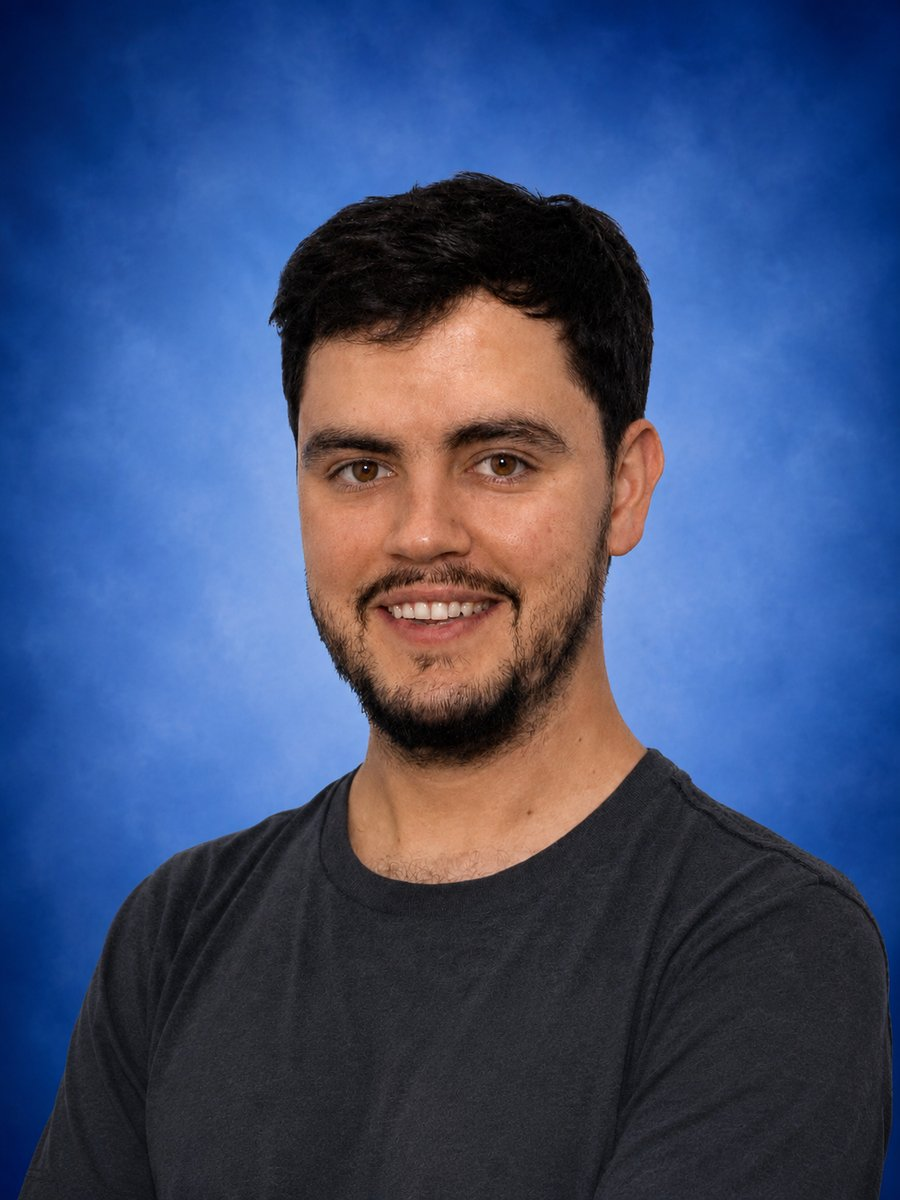
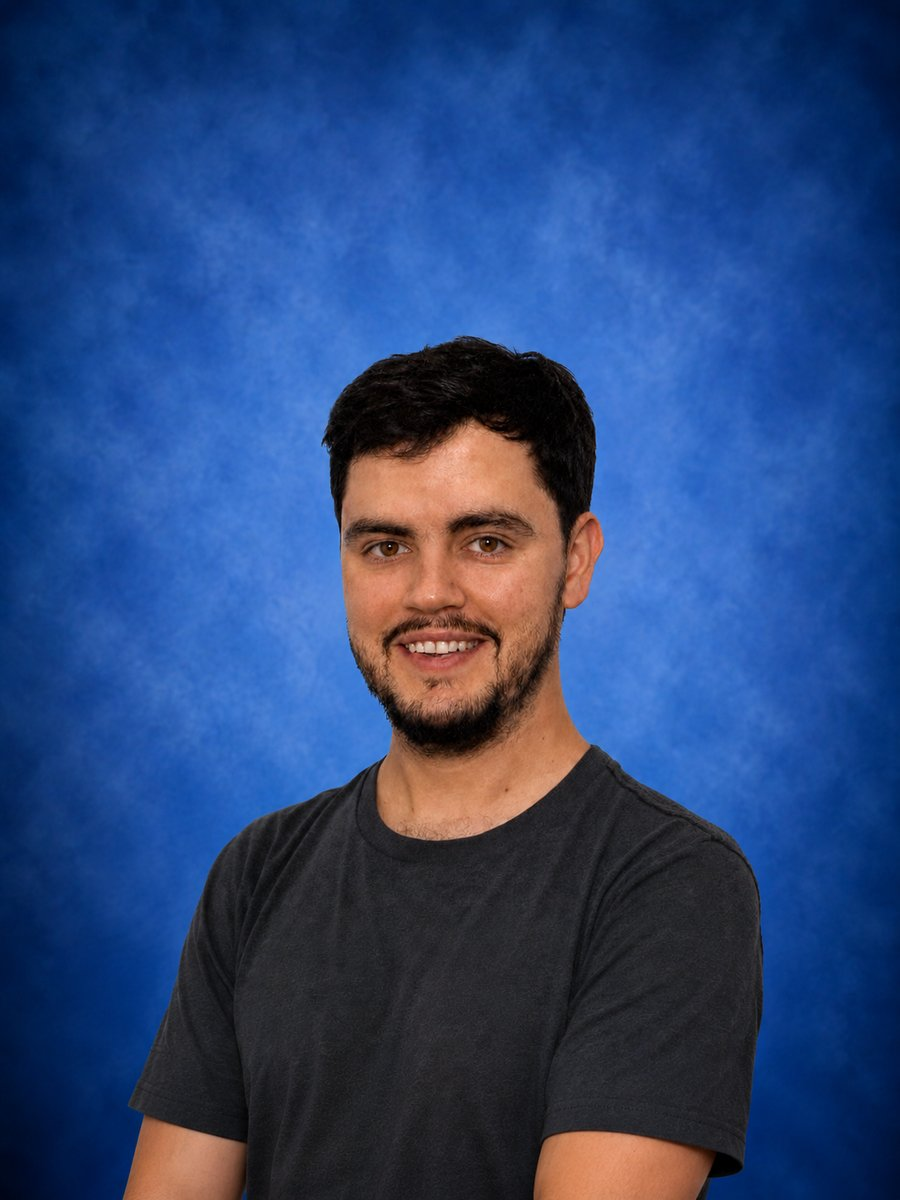
fotos proyectos, galeria tipo catalogo, ajuste margen nosotros

diff --git a/index.html b/index.html
@@ -80,7 +80,7 @@
     </div>
   </div>
   <script>
-    const PROJECTS = [{"title": "Diseño editorial Catastro campamentos 2021", "year": "2021", "client": "TECHO Chile", "desc": "Diseño editorial del catastro nacional de campamentos de Chile. La publicación ordena datos territoriales, cartografía y testimonios en una secuencia por región, con los mapas como eje de lectura.", "imgs": ["assets/portfolio/catastro-campamentos-2021.jpg"]}, {"title": "Diseño editorial Informe 8 años Meric", "year": "2024", "client": "Centro MERIC", "desc": "Diseño editorial de la memoria por los ocho años del Centro MERIC, dedicado a la investigación en innovación en energía marina. La pieza organiza resultados, cifras y contenidos del centro en un sistema editorial impreso.", "imgs": ["assets/portfolio/informe-8-anos-meric.jpg"]}, {"title": "Coordinación de marca Fundación Vivienda", "year": "2019", "client": "Fundación Vivienda", "desc": "Gestión gráfica de la marca de Fundación Vivienda: resguardo de su uso y desarrollo de aplicaciones para piezas y publicaciones.", "imgs": ["assets/portfolio/marca-fundacion-vivienda.jpg"]}, {"title": "Diseño de identidad de marca y web Contrafactual", "year": "2018", "client": "Contrafactual", "desc": "Identidad de marca y sitio web para Contrafactual, medio digital especializado en temas económicos en Chile. El encargo abarcó el sistema visual y el diseño del sitio editorial.", "imgs": ["assets/portfolio/identidad-web-contrafactual.jpg"]}, {"title": "Diseño editorial y material de venta", "year": "2023", "client": "Aspid", "desc": "Diseño editorial de material de venta para Genesal, Tisvol y Purever, centrado en la presentación de sus productos. El encargo llegó a través de la agencia Aspid.", "imgs": ["assets/portfolio/material-de-venta.jpg"]}, {"title": "Coordinación de marca Fundación Huella Local", "year": "2024–2026", "client": "Fundación Huella Local", "desc": "Gestión gráfica de la marca de Fundación Huella Local: resguardo de su uso y desarrollo de aplicaciones y publicaciones.", "imgs": ["assets/portfolio/marca-fundacion-huella-local.jpg"]}, {"title": "Kit Concausa 2021", "year": "2021", "client": "América Solidaria", "desc": "Diseño de un kit de materiales físicos para Concausa, encuentro digital de adolescentes de América Solidaria realizado durante la pandemia, orientado a entregar herramientas de participación e incidencia. El kit reunía una libreta de diseño propio, un mazo de cartas desarrollado en equipo y otros materiales, enviados a participantes de distintos países de Latinoamérica.", "imgs": ["assets/portfolio/kit-concausa-2021.jpg"]}, {"title": "Acompañamiento escritura de cuentos, diseño y producción editorial", "year": "2025", "client": "Particular", "desc": "Acompañamiento editorial a un grupo de autoras en la escritura de cuentos biográficos. El trabajo abarcó la corrección ortotipográfica y de estilo de más de cuarenta cuentos, la organización del conjunto como libro colectivo, el diseño editorial de interior y portada, y la gestión de imprenta para una tirada de 500 ejemplares.", "imgs": ["assets/portfolio/acompanamiento-escritura-cuentos.jpg"]}, {"title": "Naming y diseño de identidad de marca Wift", "year": "2022", "client": "Wift", "desc": "Naming e identificador gráfico de Wift, startup chilena de renting de autos. Desarrollado en dupla con otro diseñador.", "imgs": ["assets/portfolio/naming-identidad-wift.png"]}];
+    const PROJECTS = [{"title": "Diseño editorial Catastro campamentos 2021", "year": "2021", "client": "TECHO Chile", "desc": "Diseño editorial del catastro nacional de campamentos de Chile. La publicación ordena datos territoriales, cartografía y testimonios en una secuencia por región, con los mapas como eje de lectura.", "imgs": ["assets/portfolio/catastro-campamentos-2021.jpg", "assets/portfolio/catastro-campamentos-2021-2.jpg", "assets/portfolio/catastro-campamentos-2021-3.jpg"]}, {"title": "Diseño editorial Informe 8 años Meric", "year": "2024", "client": "Centro MERIC", "desc": "Diseño editorial de la memoria por los ocho años del Centro MERIC, dedicado a la investigación en innovación en energía marina. La pieza organiza resultados, cifras y contenidos del centro en un sistema editorial impreso.", "imgs": ["assets/portfolio/informe-8-anos-meric.jpg", "assets/portfolio/informe-8-anos-meric-2.jpg", "assets/portfolio/informe-8-anos-meric-3.jpg"]}, {"title": "Coordinación de marca Fundación Vivienda", "year": "2019", "client": "Fundación Vivienda", "desc": "Gestión gráfica de la marca de Fundación Vivienda: resguardo de su uso y desarrollo de aplicaciones para piezas y publicaciones.", "imgs": ["assets/portfolio/marca-fundacion-vivienda.jpg", "assets/portfolio/marca-fundacion-vivienda-2.jpg", "assets/portfolio/marca-fundacion-vivienda-3.jpg", "assets/portfolio/marca-fundacion-vivienda-4.jpg", "assets/portfolio/marca-fundacion-vivienda-5.jpg"]}, {"title": "Diseño de identidad de marca y web Contrafactual", "year": "2018", "client": "Contrafactual", "desc": "Identidad de marca y sitio web para Contrafactual, medio digital especializado en temas económicos en Chile. El encargo abarcó el sistema visual y el diseño del sitio editorial.", "imgs": ["assets/portfolio/identidad-web-contrafactual.jpg"]}, {"title": "Diseño editorial y material de venta", "year": "2023", "client": "Aspid", "desc": "Diseño editorial de material de venta para Genesal, Tisvol y Purever, centrado en la presentación de sus productos. El encargo llegó a través de la agencia Aspid.", "imgs": ["assets/portfolio/material-de-venta.jpg", "assets/portfolio/material-de-venta-2.jpg", "assets/portfolio/material-de-venta-3.jpg"]}, {"title": "Coordinación de marca Fundación Huella Local", "year": "2024–2026", "client": "Fundación Huella Local", "desc": "Gestión gráfica de la marca de Fundación Huella Local: resguardo de su uso y desarrollo de aplicaciones y publicaciones.", "imgs": ["assets/portfolio/marca-fundacion-huella-local.jpg", "assets/portfolio/marca-fundacion-huella-local-2.jpg", "assets/portfolio/marca-fundacion-huella-local-3.jpg", "assets/portfolio/marca-fundacion-huella-local-4.jpg", "assets/portfolio/marca-fundacion-huella-local-5.jpg", "assets/portfolio/marca-fundacion-huella-local-6.jpg"]}, {"title": "Kit Concausa 2021", "year": "2021", "client": "América Solidaria", "desc": "Diseño de un kit de materiales físicos para Concausa, encuentro digital de adolescentes de América Solidaria realizado durante la pandemia, orientado a entregar herramientas de participación e incidencia. El kit reunía una libreta de diseño propio, un mazo de cartas desarrollado en equipo y otros materiales, enviados a participantes de distintos países de Latinoamérica.", "imgs": ["assets/portfolio/kit-concausa-2021.jpg", "assets/portfolio/kit-concausa-2021-2.jpg", "assets/portfolio/kit-concausa-2021-3.jpg", "assets/portfolio/kit-concausa-2021-4.jpg", "assets/portfolio/kit-concausa-2021-5.jpg", "assets/portfolio/kit-concausa-2021-6.jpg", "assets/portfolio/kit-concausa-2021-7.jpg", "assets/portfolio/kit-concausa-2021-8.jpg"]}, {"title": "Acompañamiento escritura de cuentos, diseño y producción editorial", "year": "2025", "client": "Particular", "desc": "Acompañamiento editorial a un grupo de autoras en la escritura de cuentos biográficos. El trabajo abarcó la corrección ortotipográfica y de estilo de más de cuarenta cuentos, la organización del conjunto como libro colectivo, el diseño editorial de interior y portada, y la gestión de imprenta para una tirada de 500 ejemplares.", "imgs": ["assets/portfolio/acompanamiento-escritura-cuentos.jpg", "assets/portfolio/acompanamiento-escritura-cuentos-2.jpg", "assets/portfolio/acompanamiento-escritura-cuentos-3.jpg", "assets/portfolio/acompanamiento-escritura-cuentos-4.jpg"]}, {"title": "Naming y diseño de identidad de marca Wift", "year": "2022", "client": "Wift", "desc": "Naming e identificador gráfico de Wift, startup chilena de renting de autos. Desarrollado en dupla con otro diseñador.", "imgs": ["assets/portfolio/naming-identidad-wift.png", "assets/portfolio/naming-identidad-wift-2.jpg", "assets/portfolio/naming-identidad-wift-3.jpg", "assets/portfolio/naming-identidad-wift-4.jpg"]}];
     const modal = document.getElementById('pmodal');
     function openP(i){
       const p = PROJECTS[i];
@@ -88,10 +88,34 @@
       document.getElementById('pm-year').textContent = p.year;
       document.getElementById('pm-client').textContent = p.client;
       document.getElementById('pm-desc').textContent = p.desc;
-      document.getElementById('pm-imgs').innerHTML = p.imgs.map(s => '<img src="'+s+'" alt="'+p.title+'">').join('');
+      renderGallery(p.imgs, p.title);
       modal.classList.add('open'); modal.setAttribute('aria-hidden','false');
       document.body.classList.add('noscroll');
       modal.querySelector('.pmodal-panel').scrollTop = 0;
+    }
+    function renderGallery(imgs, title){
+      const wrap = document.getElementById('pm-imgs');
+      const multi = imgs.length > 1;
+      wrap.innerHTML = '<div class="pgallery">' +
+        '<div class="pgallery-main">' +
+          (multi ? '<button class="pgallery-arrow prev" aria-label="Anterior">‹</button>' : '') +
+          '<img id="pgallery-main-img" src="'+imgs[0]+'" alt="'+title+'">' +
+          (multi ? '<button class="pgallery-arrow next" aria-label="Siguiente">›</button>' : '') +
+        '</div>' +
+        (multi ? '<div class="pgallery-thumbs">' + imgs.map((s,idx) => '<button class="pgallery-thumb'+(idx===0?' active':'')+'" data-idx="'+idx+'"><img src="'+s+'" alt=""></button>').join('') + '</div>' : '') +
+      '</div>';
+      if (!multi) return;
+      let idx = 0;
+      const mainImg = wrap.querySelector('#pgallery-main-img');
+      const thumbs = wrap.querySelectorAll('.pgallery-thumb');
+      function show(n){
+        idx = (n + imgs.length) % imgs.length;
+        mainImg.src = imgs[idx];
+        thumbs.forEach((t, ti) => t.classList.toggle('active', ti === idx));
+      }
+      wrap.querySelector('.prev').addEventListener('click', () => show(idx - 1));
+      wrap.querySelector('.next').addEventListener('click', () => show(idx + 1));
+      thumbs.forEach(t => t.addEventListener('click', () => show(+t.dataset.idx)));
     }
     function closeP(){ modal.classList.remove('open'); modal.setAttribute('aria-hidden','true'); document.body.classList.remove('noscroll'); }
     document.querySelectorAll('.card[data-i]').forEach(b => b.addEventListener('click', () => openP(+b.dataset.i)));

diff --git a/assets/css/site.css b/assets/css/site.css
@@ -37,12 +37,12 @@ nav a.active { color: #fff; font-weight: 600; }
 .hero-mark img { position: absolute; inset: 0; width: 100%; height: 100%; opacity: 0; }
 .hero-mark img:first-child { opacity: 1; }
 .hero-mark img:nth-child(1) { animation-delay: 0s; }
-.hero-mark img:nth-child(2) { animation-delay: 1s; }
-.hero-mark img:nth-child(3) { animation-delay: 2s; }
-.hero-mark img:nth-child(4) { animation-delay: 3s; }
+.hero-mark img:nth-child(2) { animation-delay: 0.4s; }
+.hero-mark img:nth-child(3) { animation-delay: 0.8s; }
+.hero-mark img:nth-child(4) { animation-delay: 1.2s; }
 @keyframes markcycle { 0%, 25% { opacity: 1; } 25.001%, 100% { opacity: 0; } }
 @media (prefers-reduced-motion: no-preference) {
-  .hero-mark img { animation: markcycle 4s linear infinite; }
+  .hero-mark img { animation: markcycle 1.6s linear infinite; }
   .hero-mark img:first-child { opacity: 0; }
 }
 
@@ -142,6 +142,10 @@ footer { padding: 56px 80px 48px; border-top: 1px solid rgba(255,255,255,0.18); 
 
 /* Banda gris de la grilla de proyectos */
 .grid-band { background: #E6E6E6; }
+.team-band { color: #1F1F23; }
+.team-band .display { color: #1F1F23; }
+.nosotros-intro { padding-bottom: 64px; }
+.nosotros-intro .manifesto { margin-bottom: 24px; }
 
 /* Tarjetas como botones */
 .card { display: block; width: 100%; text-align: left; background: none; border: 0; padding: 0; margin: 0; cursor: pointer; font: inherit; color: inherit; }
@@ -160,8 +164,18 @@ footer { padding: 56px 80px 48px; border-top: 1px solid rgba(255,255,255,0.18); 
 .pmodal-meta .k { font-size: 12px; color: #777; margin-bottom: 5px; }
 .pmodal-meta .v { font-size: 16px; font-weight: 600; }
 .pmodal-desc { font-size: 17px; line-height: 1.6; color: #333; max-width: 64ch; margin-bottom: 36px; white-space: pre-line; }
-.pmodal-imgs { display: grid; gap: 16px; }
-.pmodal-imgs img { width: 100%; display: block; }
+.pmodal-imgs { }
+.pgallery-main { position: relative; background: #fff; border: 1px solid rgba(0,0,0,0.08); display: flex; align-items: center; justify-content: center; height: 60vh; max-height: 560px; overflow: hidden; }
+.pgallery-main img { max-width: 100%; max-height: 100%; width: auto; height: auto; object-fit: contain; display: block; }
+.pgallery-arrow { position: absolute; top: 50%; transform: translateY(-50%); width: 36px; height: 36px; border-radius: 50%; border: 0; background: rgba(31,31,35,0.55); color: #fff; font-size: 20px; line-height: 1; cursor: pointer; display: flex; align-items: center; justify-content: center; }
+.pgallery-arrow:hover { background: rgba(31,31,35,0.8); }
+.pgallery-arrow.prev { left: 12px; }
+.pgallery-arrow.next { right: 12px; }
+.pgallery-thumbs { display: flex; gap: 10px; margin-top: 12px; overflow-x: auto; padding-bottom: 4px; }
+.pgallery-thumb { flex: 0 0 auto; width: 64px; height: 64px; padding: 0; border: 2px solid transparent; background: #fff; cursor: pointer; opacity: 0.55; overflow: hidden; }
+.pgallery-thumb img { width: 100%; height: 100%; object-fit: cover; display: block; }
+.pgallery-thumb:hover { opacity: 0.85; }
+.pgallery-thumb.active { opacity: 1; border-color: var(--color-brand); }
 body.noscroll { overflow: hidden; }
 
 /* Servicios */

diff --git a/nosotros.html b/nosotros.html
@@ -23,10 +23,11 @@
       <a href="archivo.html">archivo</a>
     </nav>
   </header>
-  <section class="wrap">
+  <section class="wrap nosotros-intro">
     <h1 class="display">Nosotros</h1>
     <p class="manifesto">Bastos es un estudio de diseño orientado a proyectos de identidad visual, editorial y publicaciones impresas. El estudio desarrolla encargos independientes, colaboraciones y procesos editoriales a través de distintas escalas y formatos de trabajo.</p>
-
+  </section>
+  <section class="wrap grid-band team-band">
     <h2 class="display" style="font-size:28px;margin-bottom:28px;">Equipo</h2>
     <div class="team">
       <div class="member" tabindex="0">
@@ -36,14 +37,6 @@
       <div class="member" tabindex="0">
         <img src="assets/img/team/nicolas-parra.jpg" alt="Nicolás Parra">
         <div class="member-over"><div class="name">Nicolás Parra</div><div class="role">Director comercial</div></div>
-      </div>
-      <div class="member" tabindex="0">
-        <div class="ph">retrato</div>
-        <div class="member-over"><div class="name">[Nombre]</div><div class="role">[cargo]</div></div>
-      </div>
-      <div class="member" tabindex="0">
-        <div class="ph">retrato</div>
-        <div class="member-over"><div class="name">[Nombre]</div><div class="role">[cargo]</div></div>
       </div>
     </div>
   </section>

diff --git a/archivo.html b/archivo.html
@@ -26,12 +26,12 @@
   <section class="wrap">
     <h1 class="display">Archivo</h1>
     <div class="ficha">
-      <p class="big archivo-lead">Proyectos que desarrollo de forma independiente, sin encargo de por medio, y que son parte de mi forma de trabajar.</p>
+      <p class="big archivo-lead">Proyectos que desarrollamos de forma independiente, sin encargo de por medio, y que son parte de nuestra forma de trabajar.</p>
     </div>
     <div class="grid3 arch">
-      <div class="card"><div class="card-img"><img class="arch-logo" src="assets/archivo/cosas-que-pasan.png" alt="Cosas que pasan"><div class="card-meta"><h3 class="card-title">Cosas que pasan</h3><div class="card-sub">Blog</div></div></div></div>
-      <div class="card"><div class="card-img"><img class="arch-logo" src="assets/archivo/primero-baraja.png" alt="Primero baraja"><div class="card-meta"><h3 class="card-title">Primero baraja</h3><div class="card-sub">Podcast</div></div></div></div>
-      <div class="card"><div class="card-img"><img class="arch-logo" src="assets/archivo/mano-y-aguja.svg" alt="Mano y aguja"><div class="card-meta"><h3 class="card-title">Mano y aguja</h3><div class="card-sub">Catálogo</div></div></div></div>
+      <a class="card" href="https://ajbatlle.github.io/cosasquepasan/" target="_blank" rel="noreferrer"><div class="card-img"><img class="arch-logo" src="assets/archivo/cosas-que-pasan.png" alt="Cosas que pasan"><div class="card-meta"><h3 class="card-title">Cosas que pasan</h3><div class="card-sub">Blog</div></div></div></a>
+      <a class="card" href="https://open.spotify.com/show/39AiEVQ4054hakrVORVblu?si=e11686300e0e4081" target="_blank" rel="noreferrer"><div class="card-img"><img class="arch-logo" src="assets/archivo/primero-baraja.png" alt="Primero baraja"><div class="card-meta"><h3 class="card-title">Primero baraja</h3><div class="card-sub">Podcast</div></div></div></a>
+      <a class="card" href="https://ajbatlle.github.io/manoyaguja/" target="_blank" rel="noreferrer"><div class="card-img"><img class="arch-logo" src="assets/archivo/mano-y-aguja.svg" alt="Mano y aguja"><div class="card-meta"><h3 class="card-title">Mano y aguja</h3><div class="card-sub">Catálogo</div></div></div></a>
       <a class="card" href="taller.html"><div class="card-img"><img class="arch-logo" src="assets/archivo/primera-edicion.png" alt="Primera edición"><div class="card-meta"><h3 class="card-title">Primera edición</h3><div class="card-sub">Taller</div></div></div></a>
     </div>
   </section>